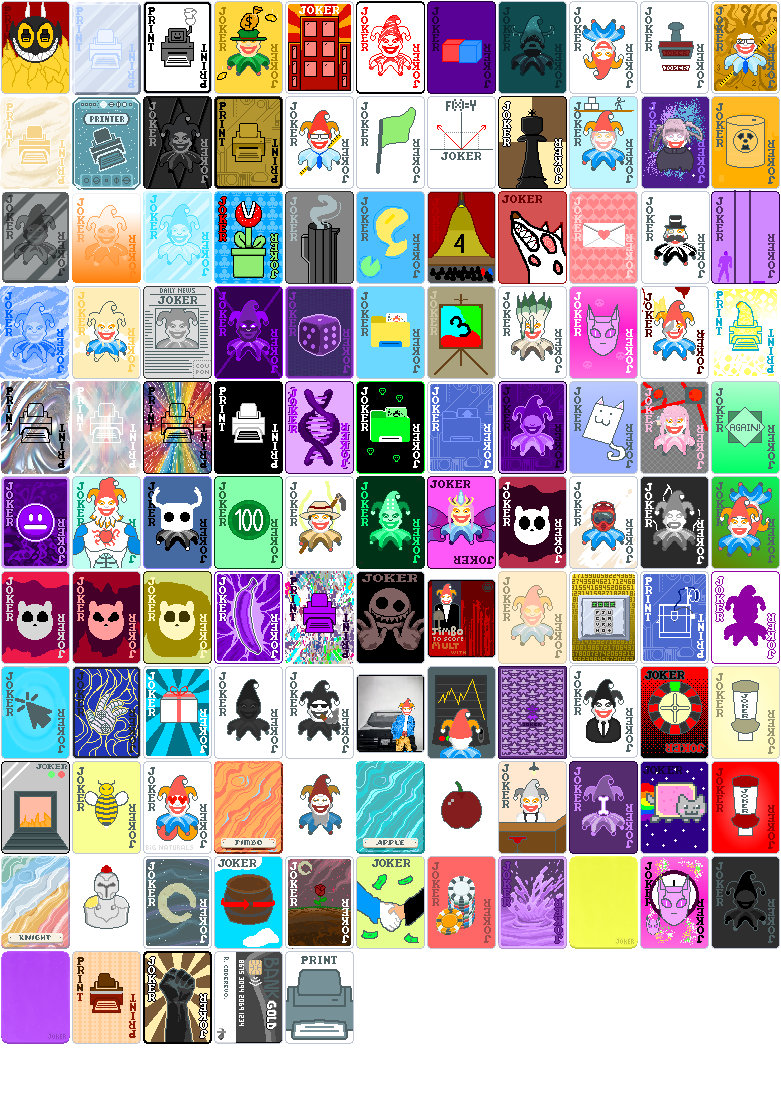
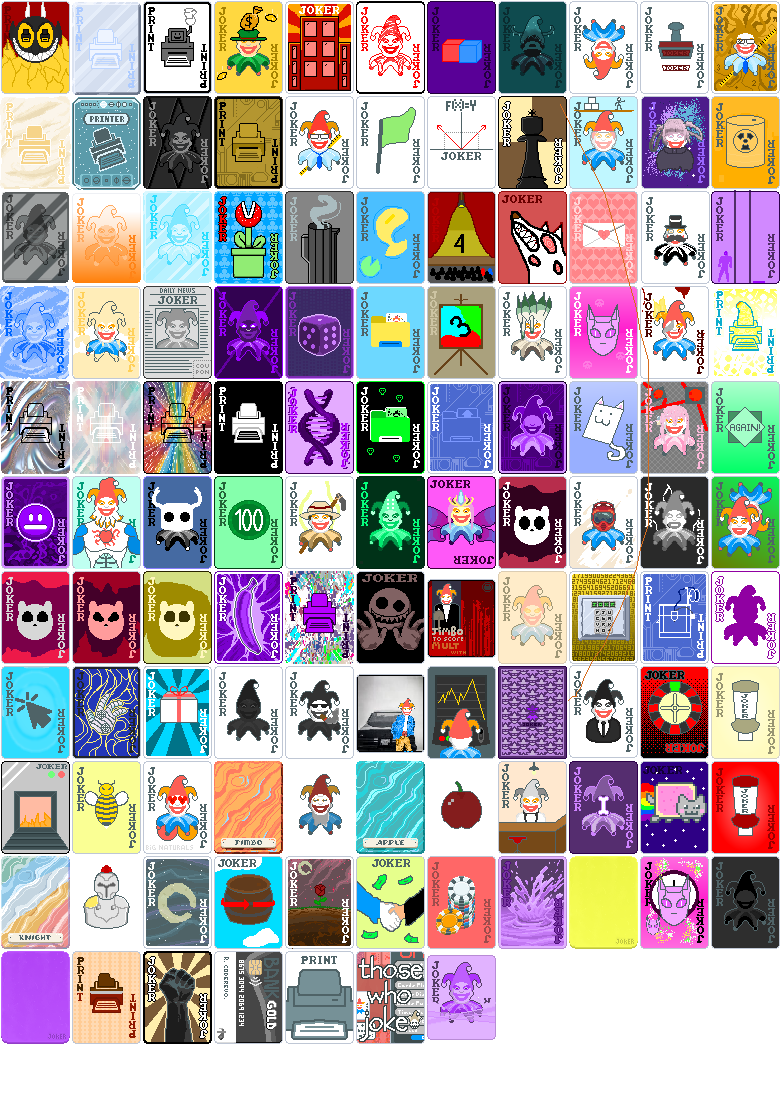
Release 4.2.1b

Changed region(s): [[0.4302, 0.8655, 0.6453, 0.9582]]

diff --git a/README.md b/README.md
@@ -1,9 +1,9 @@
 
-### Latest: Vers 4.2.1a:
+### Latest: Vers 4.2.2b:
 
 **Revo's Vault**
 
-Currently there are 4 New Rarities (Printer, Chaos, Vaulted and Secret), **160** jokers, 14 new enhancements, 2 new tarots, 3 new spectral cards, 2 new consumable types with a total of 25 custom consumables, 1 new seal, 3 new tags, 1 new voucher, 9 new booster packs, 4 new stickers, 4 new stakes and 4 new boss blinds!
+Currently there are 4 New Rarities (Printer, Chaos, Vaulted and Secret), **162** jokers, 14 new enhancements, 2 new tarots, 3 new spectral cards, 2 new consumable types with a total of 25 custom consumables, 1 new seal, 3 new tags, 1 new voucher, 9 new booster packs, 4 new stickers, 4 new stakes and 4 new boss blinds!
 
 ![Ekran görüntüsü 2025-04-07 210258](https://github.com/user-attachments/assets/848fe3cf-1f36-4f75-ba4b-24d423bd9cb3)
 
